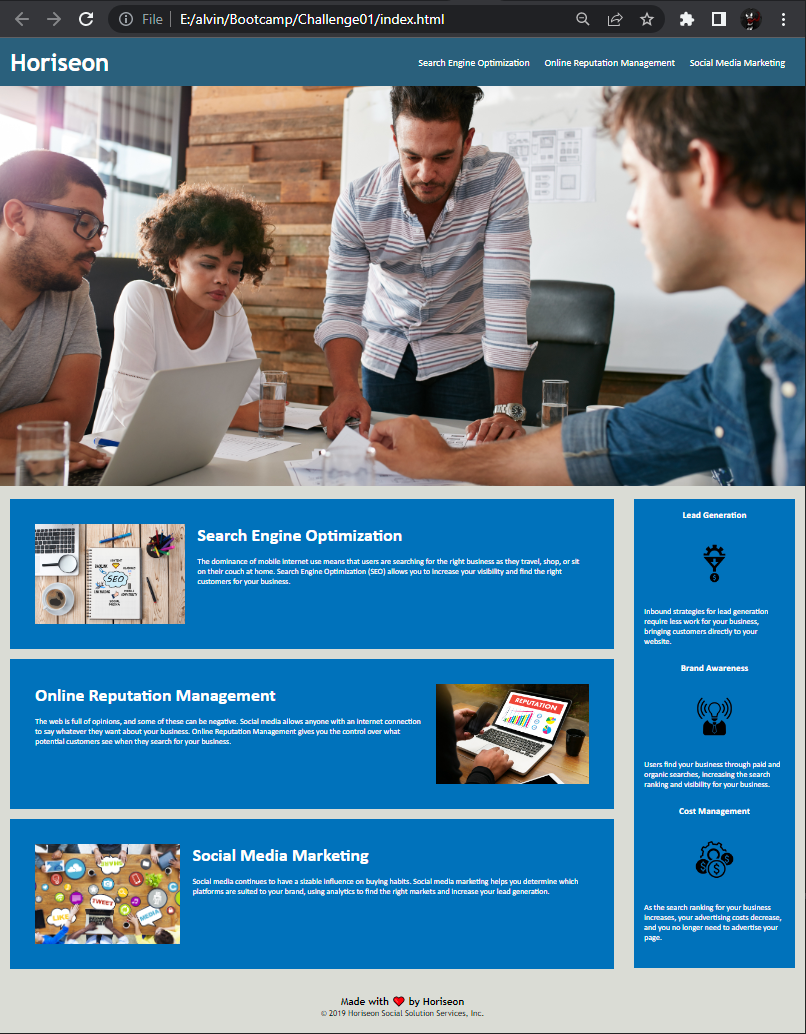
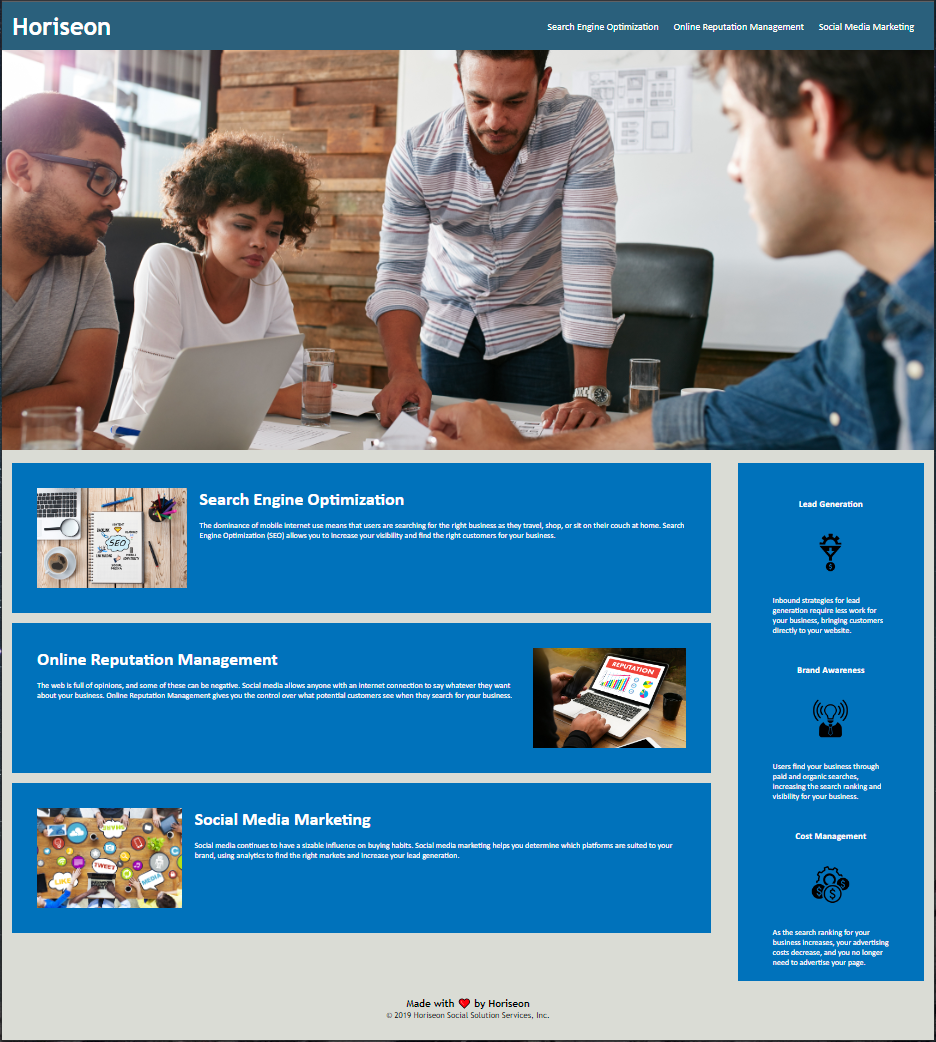
Updated HTML, CSS, Screenshot and Readme
Took a new screenshot to more accurately represent the site.

Updated the Readme to have uniform header colors throughout

Changed Article and Summary tags to Section for a more accurate Semantic representation.

Condensed and updated CSS to match HTML changes.

diff --git a/index.html b/index.html
@@ -9,6 +9,7 @@
 
 <body>
     <header>
+        <!-- Changed color of Horiseon to white and removed extra color due it not being WCAG compliant (not enough contrast) -->
         <h1>Horiseon</h1>
         <nav>
             <ul>
@@ -26,11 +27,11 @@
     </header>
 
     <!-- Background image is added via css to main so alt text is not necessary -->
-    <section></section>
+    <div id="hero"></div>
 
     <!-- This section contains the most relevant content -->
     <main>
-        <article id="search-engine-optimization">
+        <section id="search-engine-optimization">
             <!-- Added alt text for image -->
             <img src="./assets/images/search-engine-optimization.jpg" alt="Search Engine Optimization simplified"
                 class="float-left" />
@@ -40,8 +41,8 @@
                 travel, shop, or sit on their couch at home. Search Engine Optimization (SEO) allows you to increase
                 your visibility and find the right customers for your business.
             </p>
-        </article>
-        <article id="online-reputation-management">
+        </section>
+        <section id="online-reputation-management">
             <!-- Added alt text for image -->
             <img src="./assets/images/online-reputation-management.jpg" alt="Graph showing an increase in Reputation"
                 class="float-right" />
@@ -51,8 +52,8 @@
                 internet connection to say whatever they want about your business. Online Reputation Management gives
                 you the control over what potential customers see when they search for your business.
             </p>
-        </article>
-        <article id="social-media-marketing">
+        </section>
+        <section id="social-media-marketing">
             <!-- Added alt text for image -->
             <img src="./assets/images/social-media-marketing.jpg"
                 alt="team collaborating on social media marketing strategy" class="float-left" />
@@ -62,12 +63,12 @@
                 determine which platforms are suited to your brand, using analytics to find the right markets and
                 increase your lead generation.
             </p>
-        </article>
+        </section>
     </main>
 
     <!-- This Aside contains additional supporting content -->
     <aside>
-        <summary>
+        <section>
             <h3>Lead Generation</h3>
             <!-- Added alt text for image -->
             <img src="./assets/images/lead-generation.png" alt="Conversion of leads to profit" />
@@ -75,8 +76,8 @@
                 Inbound strategies for lead generation require less work for your business, bringing customers directly
                 to your website.
             </p>
-        </summary>
-        <summary>
+        </section>
+        <section>
             <h3>Brand Awareness</h3>
             <!-- Added alt text for image -->
             <img src="./assets/images/brand-awareness.png" alt="Increase your visibility" />
@@ -84,8 +85,8 @@
                 Users find your business through paid and organic searches, increasing the search ranking and visibility
                 for your business.
             </p>
-        </summary>
-        <summary>
+        </section>
+        <section>
             <h3>Cost Management</h3>
             <!-- Added alt text for image -->
             <img src="./assets/images/cost-management.png" alt="Reduce Cost through optimization" />
@@ -93,7 +94,7 @@
                 As the search ranking for your business increases, your advertising costs decrease, and you no longer
                 need to advertise your page.
             </p>
-        </summary>
+        </section>
     </aside>
     
 <!-- Added footer to properly store footer information -->

diff --git a/assets/css/style.css b/assets/css/style.css
@@ -8,6 +8,7 @@
 /* Body Styling */
 body {
     background-color: #d9dcd6;
+    color:#ffffff;
 }
 
 /* Link Styling */
@@ -26,7 +27,6 @@ header {
     padding: 20px;
     font-family: 'Trebuchet MS', 'Lucida Sans Unicode', 'Lucida Grande', 'Lucida Sans', Arial, sans-serif;
     background-color: #2a607c;
-    color: #ffffff;
 }
 
 header h1 {
@@ -52,7 +52,7 @@ header nav ul li {
 }
 
 /* Section Styling */
-section {
+#hero {
     height: 800px;
     width: 100%;
     margin-bottom: 25px;
@@ -79,8 +79,8 @@ main{
     margin-left: 20px;
 }
 
-/* Article Styling */
-article{
+/* section Styling */
+section{
     margin-bottom: 20px;
     padding: 50px;
     height: 300px;
@@ -89,16 +89,17 @@ article{
     color: #ffffff;
 }
 
-article img {
+section img {
     max-height: 200px;
 }
 
-article h2 {
+section h2 {
     margin-bottom: 20px;
     font-size: 36px;
 }
 
 /* Aside Styling */
+/* Changed color of background to match section styling due it not being WCAG compliant (not enough contrast) */
 aside {
     margin-right: 20px;
     padding: 20px;
@@ -110,18 +111,17 @@ aside {
     background-color: #0072bb;
 }
 
-aside summary{
+aside section{
     margin-bottom: 32px;
-    color: #ffffff;
 }
 
-aside summary img{
+aside section img{
     display: block;
     margin: 10px auto;
     max-width: 150px;
 }
 
-aside summary h3{
+aside section h3{
     margin-bottom: 10px;
     text-align: center;
 }
@@ -132,6 +132,7 @@ footer {
     clear: both;
     font-family: 'Trebuchet MS', 'Lucida Sans Unicode', 'Lucida Grande', 'Lucida Sans', Arial, sans-serif;
     text-align: center;
+    color:black;
 }
 
 footer h4 {

diff --git a/README.md b/README.md
@@ -55,7 +55,7 @@ Repository: https://github.com/alvinkp/Challenge01
 
 ---
 
-## ✉ <span style="color:Chartreuse">Authors</span> 
+## ✉ <span style="color:LightGreen">Authors</span> 
 
 - [@alvinkp](https://www.github.com/alvinkp)
 
